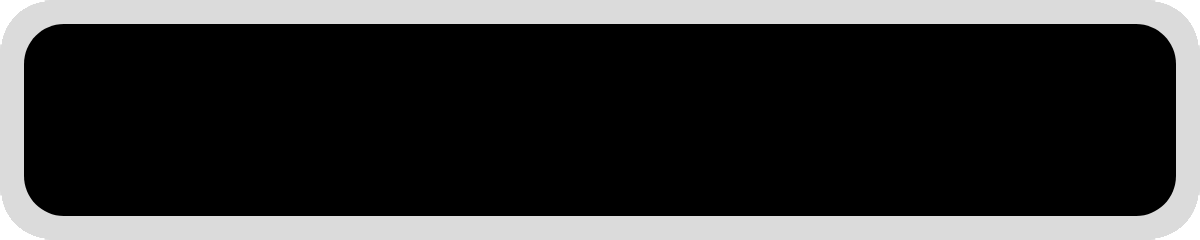
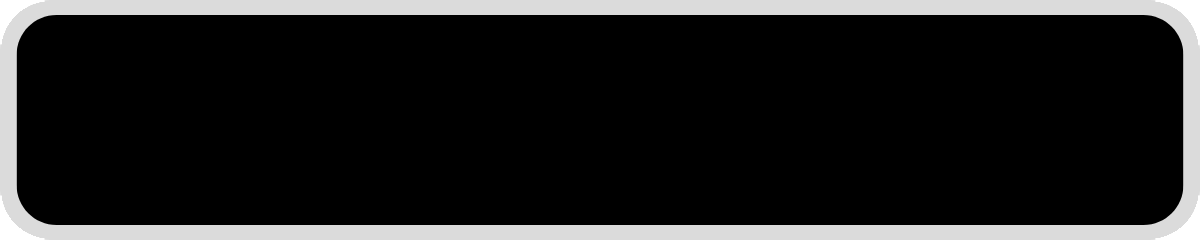
rect buttons are images

Changed region(s): [[0.0, 0.0583, 0.9867, 0.9625]]

diff --git a/GUI.py b/GUI.py
@@ -26,13 +26,13 @@ class Button:
         self.image = image
         self.rect = pygame.Rect(self.x, self.y, self.width, self.height)
 
-        resize_circle = (int((self.height * self.ratio) * 2), int((self.width * self.ratio) * 2))
+        resize_circle = (int(self.width * 2), int(self.height * 2))
         self.button_cicle_image = pygame.transform.smoothscale(pygame.image.load("images/button_circle.png").convert_alpha(), resize_circle)
         self.button_cicle_image_pressed = pygame.transform.smoothscale(pygame.image.load("images/button_circle_pressed.png").convert_alpha(), resize_circle)
         
-        resize_rect = (int((self.height * self.ratio) * 2), int((self.width * self.ratio) * 2))       
+        resize_rect = (int(self.width), int(self.height))       
         self.button_rect_image = pygame.transform.smoothscale(pygame.image.load("images/button_rect.png").convert_alpha(), resize_rect)
-        # self.button_cicle_image_pressed = pygame.transform.smoothscale(pygame.image.load("images/button_circle_pressed.png").convert_alpha(), new_size)
+        self.button_rect_image_pressed = pygame.transform.smoothscale(pygame.image.load("images/button_rect_pressed.png").convert_alpha(), resize_rect)
         self.sound = pygame.mixer.Sound("sounds/button_click.mp3")
 
     def handle_event(self, event):
@@ -51,7 +51,7 @@ class RectButton(Button):
         # if mouse_over: pygame.draw.rect(win, (255, 140 ,68), self.rect, int(6 * self.ratio), border_radius=int(22 * self.ratio))
         # else: pygame.draw.rect(win, (195, 195, 195), self.rect, int(6 * self.ratio), border_radius=int(22 * self.ratio))
 
-        if mouse_over: pygame.draw.rect(win, (255, 140 ,68), self.rect, int(6 * self.ratio), border_radius=int(22 * self.ratio))
+        if mouse_over: win.blit(self.button_rect_image_pressed, (self.x, self.y))
         else: win.blit(self.button_rect_image, (self.x, self.y))
 
         font_size = int(self.font_size * min(self.ratio, self.ratio))
